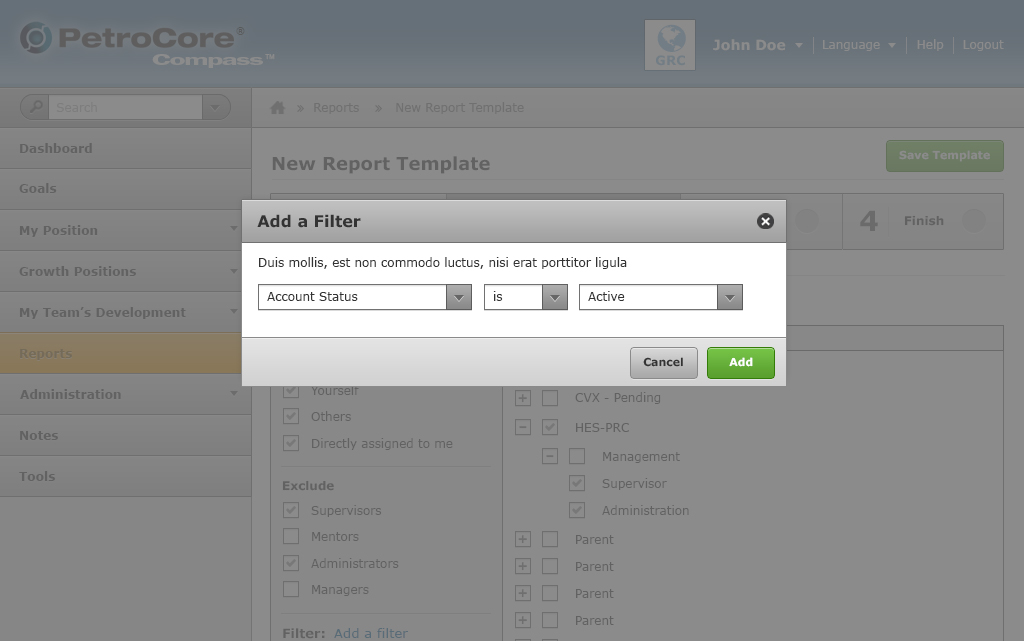
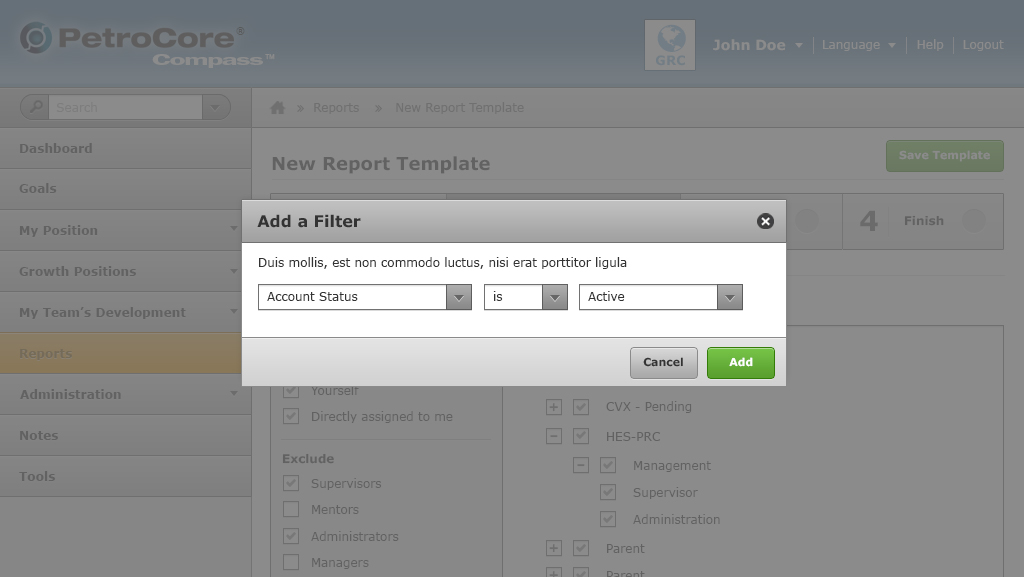
Remove "Others" checkbox. Remove "Select Al" checkbox. Update Tree. Update Style guide screenshots.

diff --git a/demo/petrocore-reports-new2.html b/demo/petrocore-reports-new2.html
@@ -24,17 +24,22 @@
   <link rel="stylesheet" href="../stylesheets/font-awesome.min.css">
   <link rel="stylesheet" href="../demo/app-styles.css">
 
+  <!--[if IE 8]>
+    <link rel="stylesheet" type="text/css" href="ie8.css">
+  <![endif]-->
+
   <script src="../javascripts/modernizr.foundation.js"></script>
 </head>
 <body>
 
 <!--***** PETROCORE HEADER *****-->
+
 <nav class="top-bar">
   <div class="toggle-nav-mobile"><a href="#" class="toggle-btn"></a></div>
   <div class="logo"></div>
   <div class="profile-container">
     <div class="avatar"></div>
-    <div class="dropdown-profile"><p class="icon-">&#xf0dd;</p></div>
+<!--    <div class="dropdown-profile"><p class="icon-">&#xf0dd;</p></div>  -->
       <div class="top-nav">
         <ul>
           <!-- <li class="top-nav-links"><a href="#" class="username">John Doe</a></li> -->
@@ -69,6 +74,7 @@
       </div>
   </div>
 </nav>
+
 <!--***** PETROCORE HEADER *****-->
 
 <!--***** MAIN WRAPPER *****-->
@@ -327,7 +333,6 @@
                       <div class="filters-checklist">
                           <p class="options-description"><b>Include</b></p>
                           <label for="checkbox1"><input type="checkbox" id="checkbox1"> Yourself</label>
-                          <label for="checkbox2"><input type="checkbox" id="checkbox2"> Others</label>     
                           <label for="checkbox12"><input type="checkbox" id="checkbox12"> Directly assigned to me</label>                                           
                       </div>
                       
@@ -376,13 +381,8 @@
               <div class="eight columns remove-padding-custom">
                 <div class="panel-wrapper-white-tree">
 
-                <div class="panel-header-small-static-action">
-                  <!-- <h5>Select all</h5> -->
+                  <img src="../images/step2-tree.jpg">                  
 
-                  <label for="checkbox10" style="margin-top:4px;"><input type="checkbox" id="checkbox10"> Select All</label>
-                  <img src="../images/step2-tree.png" style="margin-left:-3px; margin-top:6px;">                  
-
-                </div>
               </div>
 
               </div>
@@ -461,15 +461,11 @@
 
 
               <div class="eight columns remove-padding-custom">
-                <div class="panel-wrapper-white-tree">
+              
+              <div class="panel-wrapper-white-tree">
 
-                <div class="panel-header-small-static-action">
-                  <!-- <h5>Select all</h5> -->
+                  <img src="../images/step2-tree2.jpg">                  
 
-                  <label for="checkbox10" style="margin-top:4px;"><input type="checkbox" id="checkbox10"> Select All</label>
-                  <img src="../images/step2-tree2.png" style="margin-left:-3px; margin-top:6px;">
-
-                </div>
               </div>
 
               </div>

diff --git a/demo/petrocore-reports-edit2.html b/demo/petrocore-reports-edit2.html
@@ -24,17 +24,22 @@
   <link rel="stylesheet" href="../stylesheets/font-awesome.min.css">
   <link rel="stylesheet" href="../demo/app-styles.css">
 
+  <!--[if IE 8]>
+    <link rel="stylesheet" type="text/css" href="ie8.css">
+  <![endif]-->
+
   <script src="../javascripts/modernizr.foundation.js"></script>
 </head>
 <body>
 
 <!--***** PETROCORE HEADER *****-->
+
 <nav class="top-bar">
   <div class="toggle-nav-mobile"><a href="#" class="toggle-btn"></a></div>
   <div class="logo"></div>
   <div class="profile-container">
     <div class="avatar"></div>
-    <div class="dropdown-profile"><p class="icon-">&#xf0dd;</p></div>
+<!--    <div class="dropdown-profile"><p class="icon-">&#xf0dd;</p></div>  -->
       <div class="top-nav">
         <ul>
           <!-- <li class="top-nav-links"><a href="#" class="username">John Doe</a></li> -->
@@ -69,6 +74,7 @@
       </div>
   </div>
 </nav>
+
 <!--***** PETROCORE HEADER *****-->
 
 <!--***** MAIN WRAPPER *****-->
@@ -321,7 +327,6 @@
                       <div class="filters-checklist">
                           <p class="options-description"><b>Include</b></p>
                           <label for="checkbox1"><input type="checkbox" CHECKED id="checkbox1"> Yourself</label>
-                          <label for="checkbox2"><input type="checkbox" CHECKED id="checkbox2"> Others</label>  
                           <label for="checkbox12"><input type="checkbox" id="checkbox12"> Directly assigned to me</label>                                           
                       </div>
                       
@@ -368,13 +373,8 @@
               <div class="eight columns remove-padding-custom">
                 <div class="panel-wrapper-white-tree">
 
-                <div class="panel-header-small-static-action">
-                  <!-- <h5>Select all</h5> -->
+                  <img src="../images/step2-tree.jpg">                  
 
-                  <label for="checkbox10" style="margin-top:4px;"><input type="checkbox" id="checkbox10"> Select All</label>
-                  <img src="../images/step2-tree.png" style="margin-left:-3px; margin-top:6px;">                  
-
-                </div>
               </div>
 
               </div>
@@ -451,13 +451,8 @@
               <div class="eight columns remove-padding-custom">
                 <div class="panel-wrapper-white-tree">
 
-                <div class="panel-header-small-static-action">
-                  <!-- <h5>Select all</h5> -->
+                  <img src="../images/step2-tree2.jpg">                  
 
-                  <label for="checkbox11" style="margin-top:4px;"><input type="checkbox" id="checkbox11"> Select All</label>
-                  <img src="../images/step2-tree2.png" style="margin-left:-3px; margin-top:6px;">
-
-                </div>
               </div>
 
               </div>

diff --git a/demo/petrocore-reports-edit3.html b/demo/petrocore-reports-edit3.html
@@ -24,17 +24,22 @@
   <link rel="stylesheet" href="../stylesheets/font-awesome.min.css">
   <link rel="stylesheet" href="../demo/app-styles.css">
 
+  <!--[if IE 8]>
+    <link rel="stylesheet" type="text/css" href="ie8.css">
+  <![endif]-->
+
   <script src="../javascripts/modernizr.foundation.js"></script>
 </head>
 <body>
 
 <!--***** PETROCORE HEADER *****-->
+
 <nav class="top-bar">
   <div class="toggle-nav-mobile"><a href="#" class="toggle-btn"></a></div>
   <div class="logo"></div>
   <div class="profile-container">
     <div class="avatar"></div>
-    <div class="dropdown-profile"><p class="icon-">&#xf0dd;</p></div>
+<!--    <div class="dropdown-profile"><p class="icon-">&#xf0dd;</p></div>  -->
       <div class="top-nav">
         <ul>
           <!-- <li class="top-nav-links"><a href="#" class="username">John Doe</a></li> -->
@@ -69,6 +74,7 @@
       </div>
   </div>
 </nav>
+
 <!--***** PETROCORE HEADER *****-->
 
 <!--***** MAIN WRAPPER *****-->
@@ -313,8 +319,8 @@
             <div class="row">
 
               <div class="eight columns remove-padding">
-                <div class="panel-wrapper-white-tree">
-                  <img src="../images/step3-tree.png" style="margin-left:10px; margin-top:6px;">                  
+                <div class="panel-wrapper-white-tree-uncontained">
+                  <img src="../images/step3-tree.png">                  
               </div>
               </div>
               <div class="four columns"></div>
@@ -343,8 +349,8 @@
             <div class="row">
 
               <div class="eight columns remove-padding">
-                <div class="panel-wrapper-white-tree">
-                  <img src="../images/step3-tree2.png" style="margin-left:10px; margin-top:6px;">                  
+                <div class="panel-wrapper-white-tree-uncontained">
+                  <img src="../images/step3-tree2.png">                  
               </div>
               </div>
               <div class="four columns"></div>

diff --git a/demo/petrocore-reports-new3.html b/demo/petrocore-reports-new3.html
@@ -24,17 +24,22 @@
   <link rel="stylesheet" href="../stylesheets/font-awesome.min.css">
   <link rel="stylesheet" href="../demo/app-styles.css">
 
+  <!--[if IE 8]>
+    <link rel="stylesheet" type="text/css" href="ie8.css">
+  <![endif]-->
+
   <script src="../javascripts/modernizr.foundation.js"></script>
 </head>
 <body>
 
 <!--***** PETROCORE HEADER *****-->
+
 <nav class="top-bar">
   <div class="toggle-nav-mobile"><a href="#" class="toggle-btn"></a></div>
   <div class="logo"></div>
   <div class="profile-container">
     <div class="avatar"></div>
-    <div class="dropdown-profile"><p class="icon-">&#xf0dd;</p></div>
+<!--    <div class="dropdown-profile"><p class="icon-">&#xf0dd;</p></div>  -->
       <div class="top-nav">
         <ul>
           <!-- <li class="top-nav-links"><a href="#" class="username">John Doe</a></li> -->
@@ -69,6 +74,7 @@
       </div>
   </div>
 </nav>
+
 <!--***** PETROCORE HEADER *****-->
 
 <!--***** MAIN WRAPPER *****-->
@@ -318,8 +324,8 @@
             <div class="row">
 
               <div class="eight columns remove-padding">
-                <div class="panel-wrapper-white-tree">
-                  <img src="../images/step3-tree.png" style="margin-left:10px; margin-top:6px;">                  
+                <div class="panel-wrapper-white-tree-uncontained">
+                  <img src="../images/step3-tree.png">                  
               </div>
               </div>
               <div class="four columns"></div>
@@ -348,8 +354,8 @@
             <div class="row">
 
               <div class="eight columns remove-padding">
-                <div class="panel-wrapper-white-tree">
-                  <img src="../images/step3-tree2.png" style="margin-left:10px; margin-top:6px;">                  
+                <div class="panel-wrapper-white-tree-uncontained">
+                  <img src="../images/step3-tree2.png">                  
               </div>
               </div>
               <div class="four columns"></div>

diff --git a/demo/app-styles.css b/demo/app-styles.css
@@ -1709,6 +1709,17 @@ ul.accordion>li>div.title:after {
 	min-height: 519px;
 	overflow: hidden;
 	width:100%;
+	padding:15px;
+}
+
+.panel-wrapper-white-tree-uncontained {
+	/*border-left:1px solid #8a8a8a;*/
+	background-color: #fff;
+	min-height: 519px;
+	overflow: hidden;
+	width:100%;
+	border: 1px solid #8a8a8a;
+	padding:15px;
 }
 
 .panel-header {
